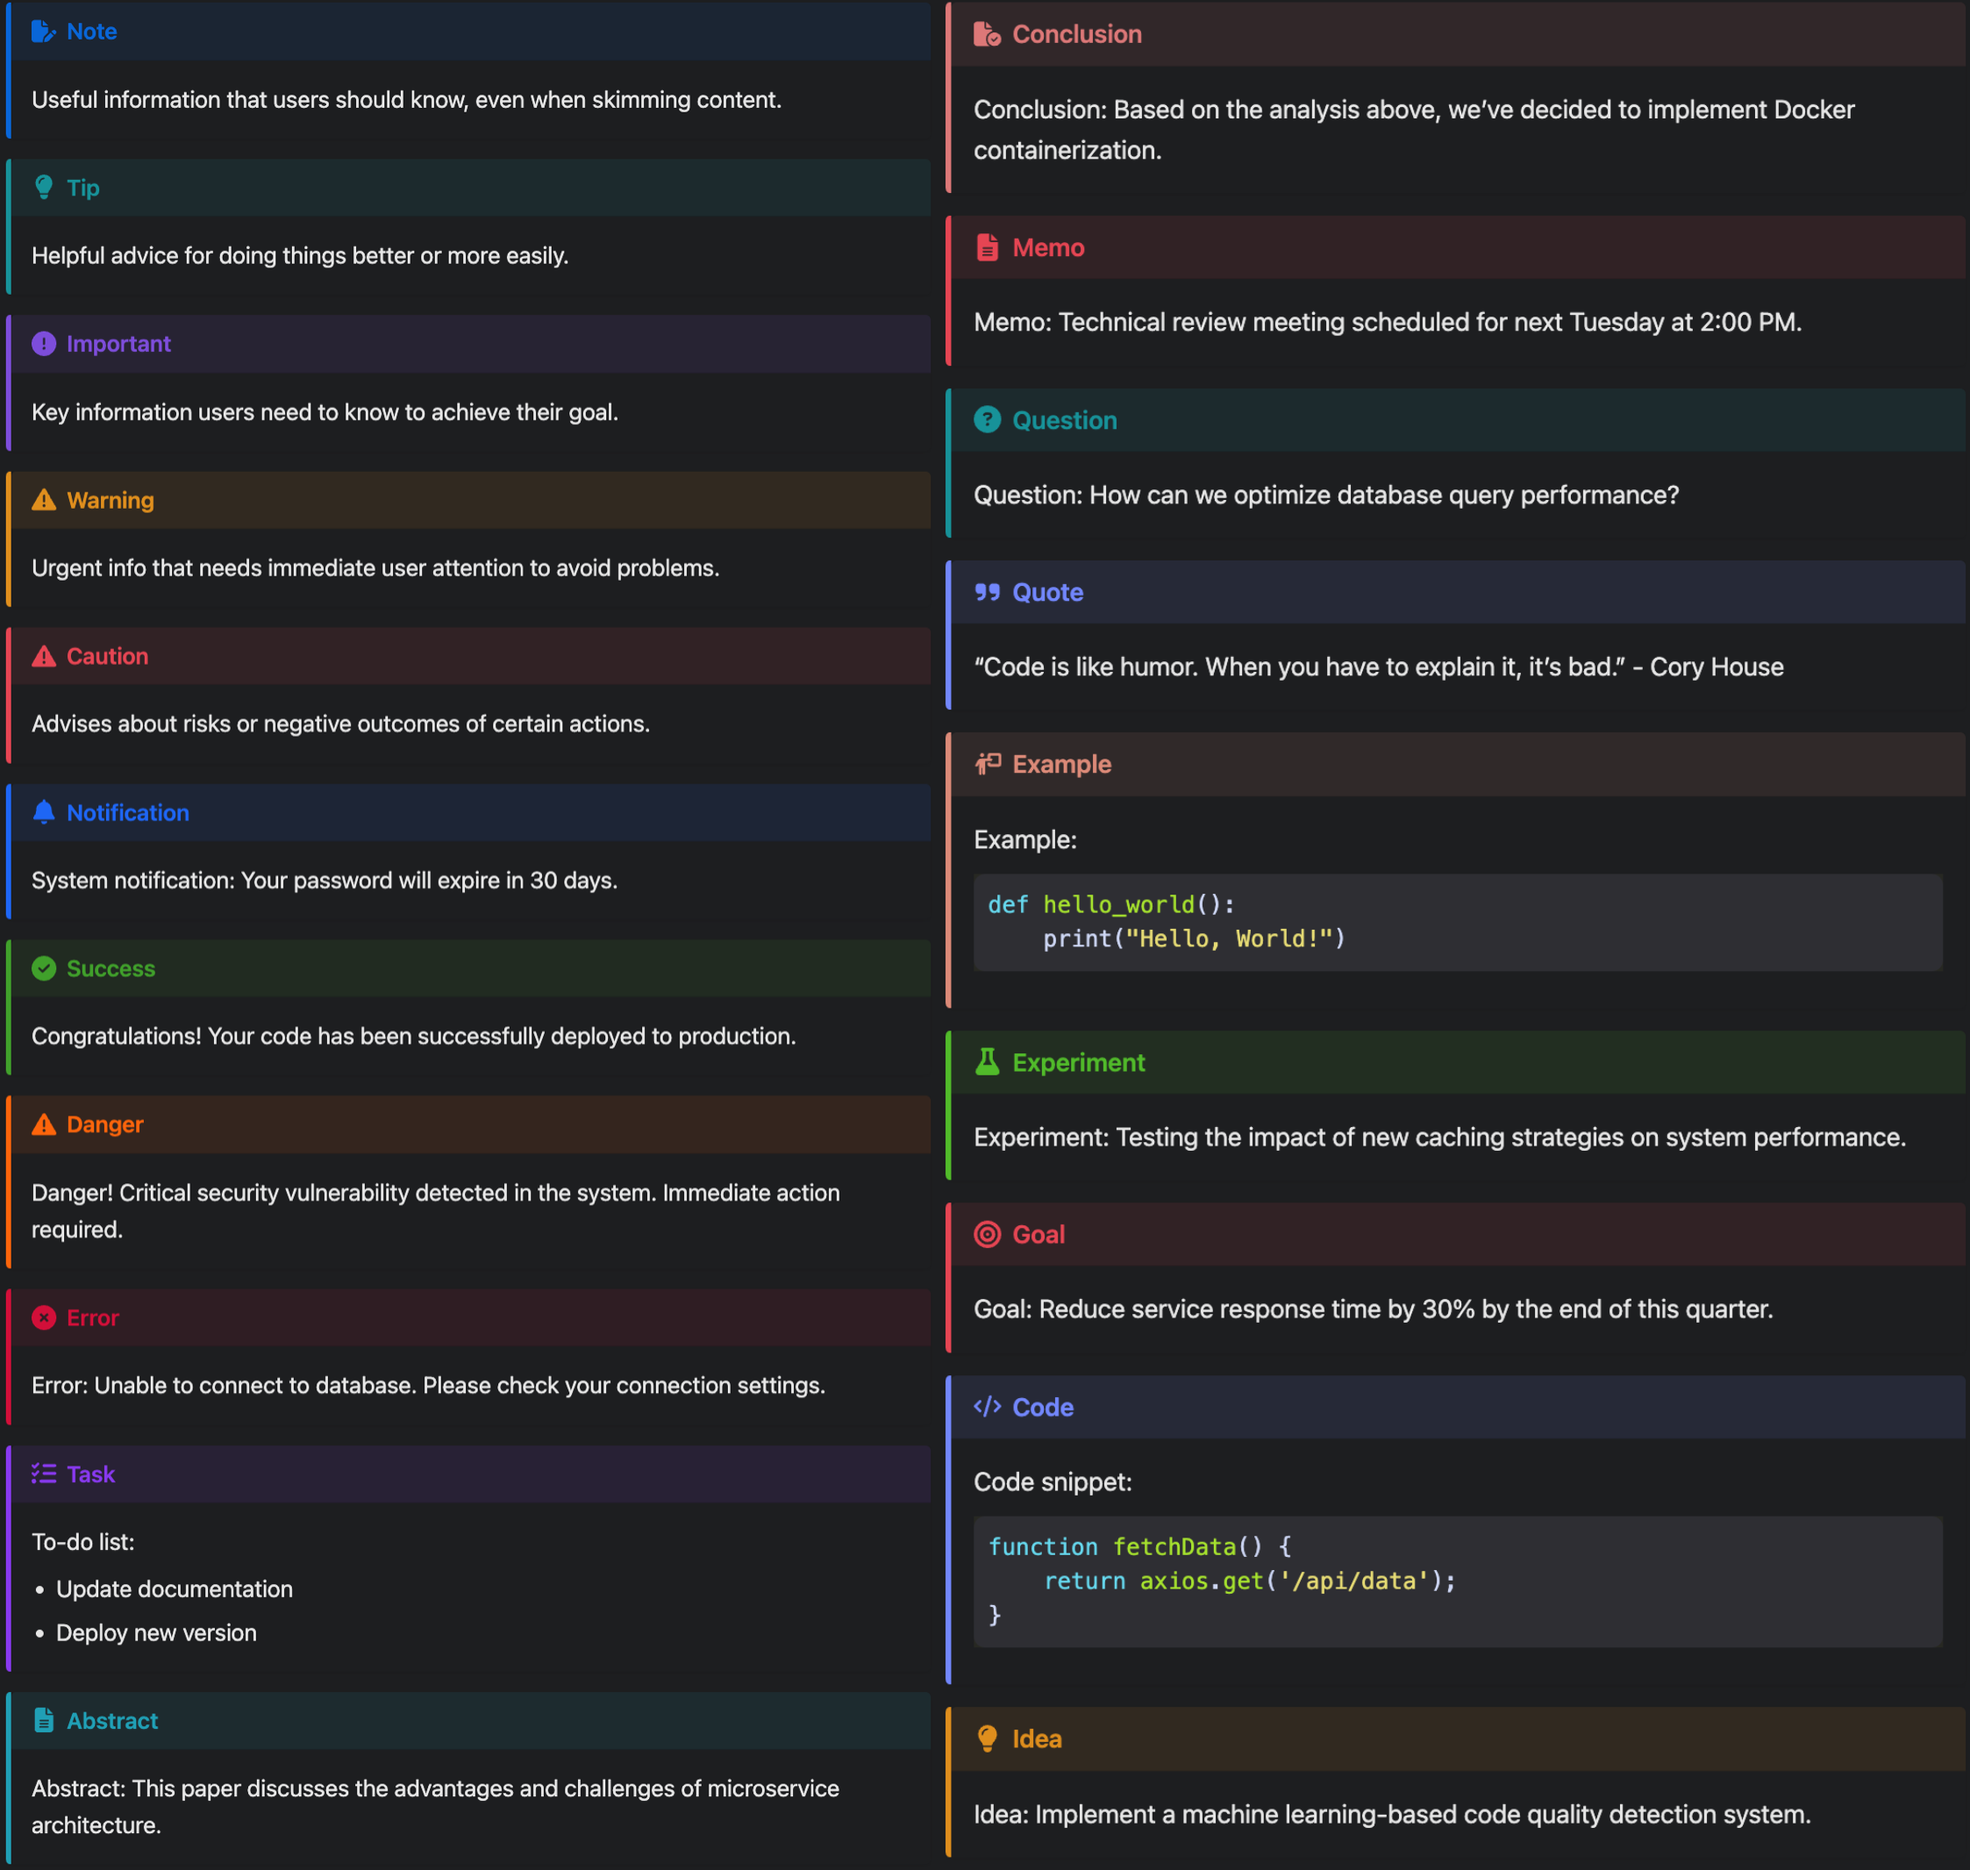
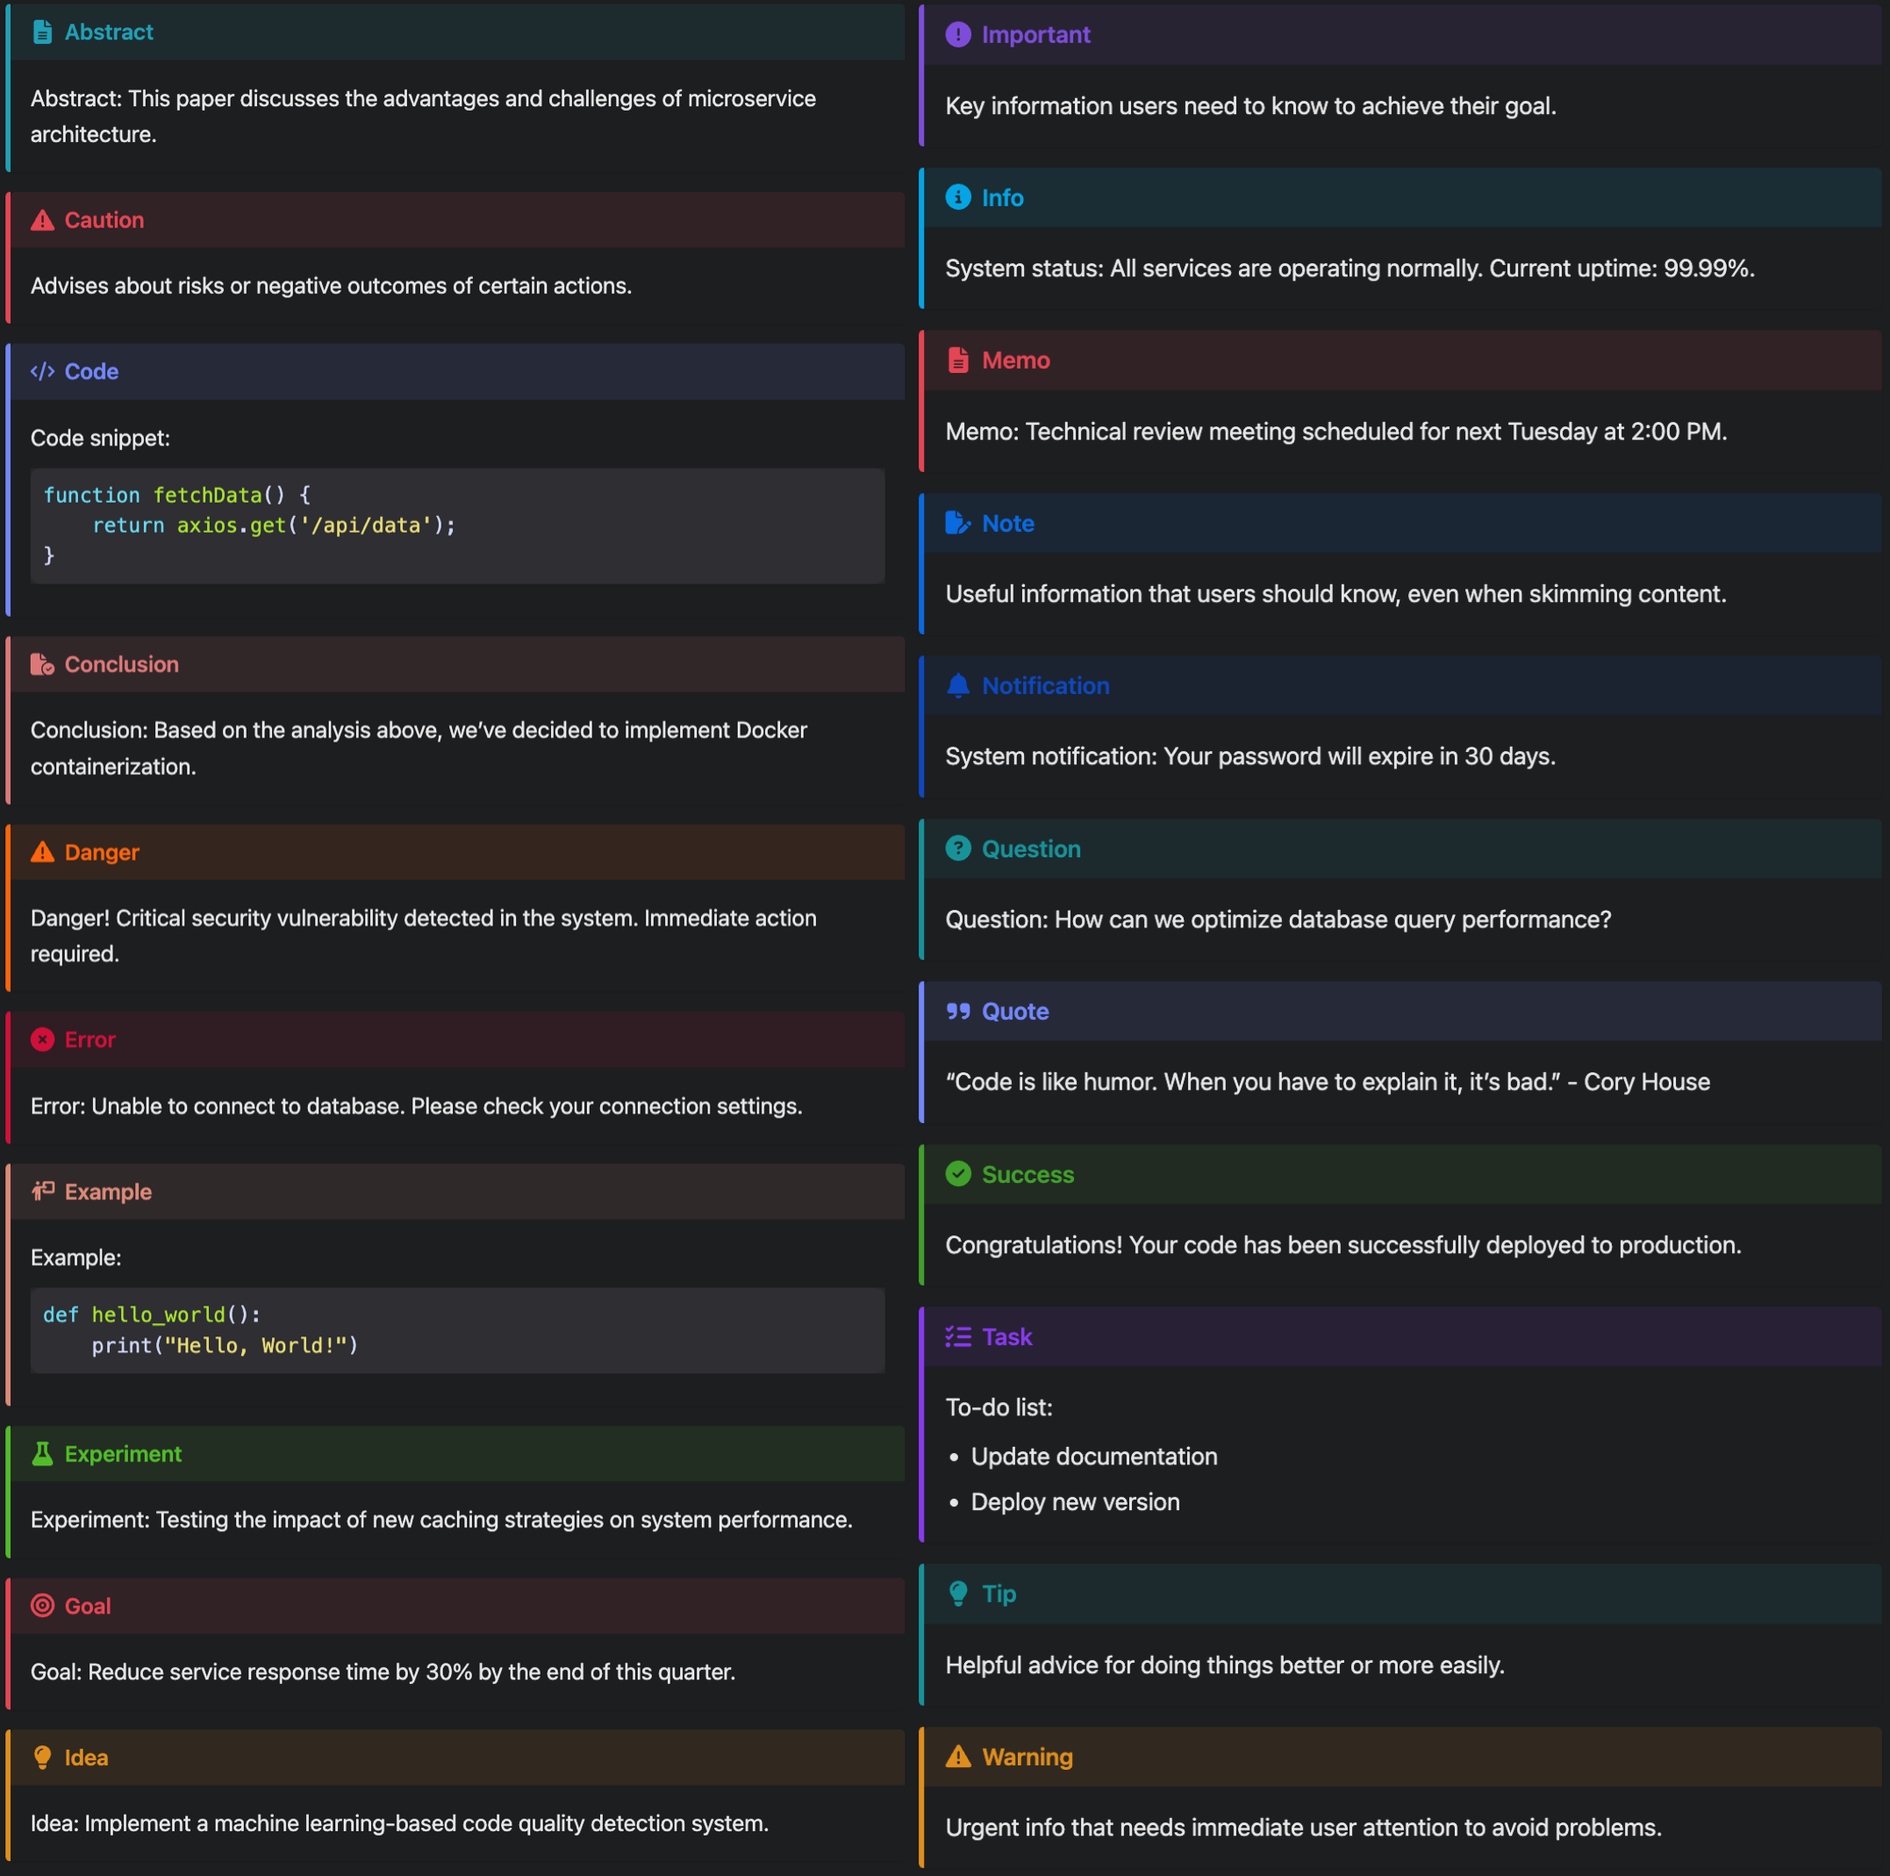
docs: update README
Fixes #13

diff --git a/assets/sass/vendors/_admonitions.scss b/assets/sass/vendors/_admonitions.scss
@@ -13,8 +13,8 @@ $admonition-colors: (
   important:  #7D4DDA,
   info:       #04a5e5,
   memo:       #e64553,
-  note:       #0966D8,
-  notify:     #1e66f5,
+  note:       #096ae1,
+  notify:     #0d48bd,
   question:   #179299,
   quote:      #7287fd,
   success:    #40a02b,

diff --git a/callout-demo.md b/callout-demo.md
@@ -30,53 +30,29 @@ toc: true
 
 ## Callout Overview
 
-> [!NOTE]
-> Useful information that users should know, even when skimming content.
-
-> [!TIP]
-> Helpful advice for doing things better or more easily.
-
-> [!IMPORTANT]
-> Key information users need to know to achieve their goal.
-
-> [!WARNING]
-> Urgent info that needs immediate user attention to avoid problems.
+> [!ABSTRACT]
+> Abstract: This paper discusses the advantages and challenges of microservice architecture.
 
 > [!CAUTION]
 > Advises about risks or negative outcomes of certain actions.
 
-> [!NOTIFY]
-> System notification: Your password will expire in 30 days.
+> [!CODE]
+> Code snippet:
+>
+> ```javascript
+> function fetchData() {
+>     return axios.get('/api/data');
+> }
+> ```
 
-> [!SUCCESS]
-> Congratulations! Your code has been successfully deployed to production.
+> [!CONCLUSION]
+> Conclusion: Based on the analysis above, we've decided to implement Docker containerization.
 
 > [!DANGER]
 > Danger! Critical security vulnerability detected in the system. Immediate action required.
 
 > [!ERROR]
 > Error: Unable to connect to database. Please check your connection settings.
-
-> [!TASK]
-> To-do list:
->
-> - Update documentation
-> - Deploy new version
-
-> [!ABSTRACT]
-> Abstract: This paper discusses the advantages and challenges of microservice architecture.
-
-> [!CONCLUSION]
-> Conclusion: Based on the analysis above, we've decided to implement Docker containerization.
-
-> [!MEMO]
-> Memo: Technical review meeting scheduled for next Tuesday at 2:00 PM.
-
-> [!QUESTION]
-> Question: How can we optimize database query performance?
-
-> [!QUOTE]
-> "Code is like humor. When you have to explain it, it's bad." - Cory House
 
 > [!EXAMPLE]
 > Example:
@@ -92,17 +68,45 @@ toc: true
 > [!GOAL]
 > Goal: Reduce service response time by 30% by the end of this quarter.
 
-> [!CODE]
-> Code snippet:
->
-> ```javascript
-> function fetchData() {
->     return axios.get('/api/data');
-> }
-> ```
-
 > [!IDEA]
 > Idea: Implement a machine learning-based code quality detection system.
+
+> [!IMPORTANT]
+> Key information users need to know to achieve their goal.
+
+> [!INFO]
+> System status: All services are operating normally. Current uptime: 99.99%.
+
+> [!MEMO]
+> Memo: Technical review meeting scheduled for next Tuesday at 2:00 PM.
+
+> [!NOTE]
+> Useful information that users should know, even when skimming content.
+
+> [!NOTIFY]
+> System notification: Your password will expire in 30 days.
+
+> [!QUESTION]
+> Question: How can we optimize database query performance?
+
+> [!QUOTE]
+> "Code is like humor. When you have to explain it, it's bad." - Cory House
+
+> [!SUCCESS]
+> Congratulations! Your code has been successfully deployed to production.
+
+> [!TASK]
+> To-do list:
+>
+> - Update documentation
+> - Deploy new version
+
+> [!TIP]
+> Helpful advice for doing things better or more easily.
+
+> [!WARNING]
+> Urgent info that needs immediate user attention to avoid problems.
+
 
 ## Customization
 
@@ -118,35 +122,17 @@ Choose a callout you prefer and add a title
 
 You can choose to only to show the header!
 
-> [!NOTE] Always backup your data before performing system updates
-
-> [!TIP] Use `Ctrl + C` to quickly terminate a running program
-
-> [!IMPORTANT] Please review and update your security settings
-
-> [!WARNING] Warning: This operation will delete all data
+> [!ABSTRACT] This paper discusses the advantages of microservice architecture
 
 > [!CAUTION] Ensure all tests pass before merging to main branch
 
-> [!NOTIFY] System notification: Your password will expire in 30 days
+> [!CODE] Execute `npm install` to install all dependencies
 
-> [!SUCCESS] Congratulations! Your code has been successfully deployed to production
+> [!CONCLUSION] We've decided to implement Docker containerization
 
 > [!DANGER] Critical security vulnerability detected in the system
 
 > [!ERROR] Error: Unable to connect to database. Please check your connection settings
-
-> [!TASK] Review and update API documentation by Friday
-
-> [!ABSTRACT] This paper discusses the advantages of microservice architecture
-
-> [!CONCLUSION] We've decided to implement Docker containerization
-
-> [!MEMO] Technical review meeting scheduled for next Tuesday at 2:00 PM
-
-> [!QUESTION] How can we optimize database query performance?
-
-> [!QUOTE] "Code is like humor. When you have to explain it, it's bad." - Cory House
 
 > [!EXAMPLE] Git commit message format: "feat: add user authentication"
 
@@ -154,6 +140,26 @@ You can choose to only to show the header!
 
 > [!GOAL] Reduce service response time by 30% by the end of this quarter
 
-> [!CODE] Execute `npm install` to install all dependencies
-
 > [!IDEA] Implement a machine learning-based code quality detection system
+
+> [!IMPORTANT] Please review and update your security settings
+
+> [!INFO] Current system status: All services are operating normally with 99.9% uptime
+
+> [!MEMO] Technical review meeting scheduled for next Tuesday at 2:00 PM
+
+> [!NOTE] Always backup your data before performing system updates
+
+> [!NOTIFY] System notification: Your password will expire in 30 days
+
+> [!QUESTION] How can we optimize database query performance?
+
+> [!QUOTE] "Code is like humor. When you have to explain it, it's bad." - Cory House
+
+> [!SUCCESS] Congratulations! Your code has been successfully deployed to production
+
+> [!TASK] Review and update API documentation by Friday
+
+> [!TIP] Use `Ctrl + C` to quickly terminate a running program
+
+> [!WARNING] Warning: This operation will delete all data

diff --git a/README.md b/README.md
@@ -54,7 +54,7 @@ Inspire from [mdbook-admonish](https://tommilligan.github.io/mdbook-admonish/)
 ### Header Only Mode
 
 <div align="center">
-  <img src="./header-only-mode.png" width="400" alt="header-only-mode">
+  <img src="./header-only-mode.png" width="500" alt="header-only-mode">
 </div>
 
 ## Installation
@@ -145,6 +145,7 @@ Use the blockquote in this way:
 - `[!GOAL]`
 - `[!IDEA]`
 - `[!IMPORTANT]`
+- `[!INFO]`
 - `[!MEMO]`
 - `[!NOTE]`
 - `[!NOTIFY]`
